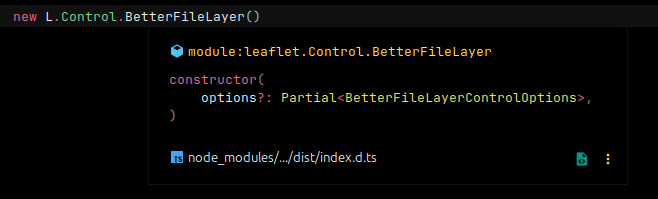
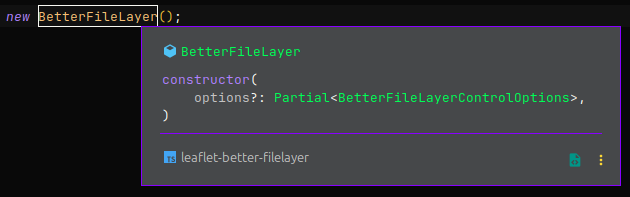
Docs and fixes

diff --git a/src/types.ts b/src/types.ts
@@ -168,9 +168,14 @@ export interface BetterFileLayerControlOptions extends ControlOptions {
   text: {
     title: string;
   };
-  button?: HTMLElement | HTMLInputElement;
   /**
-   * Enable autoload.
+   * Custom External button. Must be input element of type file.
+   */
+  button?: HTMLInputElement;
+  /**
+   * Enable or disable layer autoload. If true the plugin will
+   * create the layer, add into map and send it via bfl:layerloaded event.
+   * If false the plugin will only create the layer and send it via event.
    */
   addOnMap: boolean;
 }

diff --git a/vite.config.js b/vite.config.js
@@ -11,11 +11,11 @@ export default defineConfig({
       name: 'leaflet.betterfilelayer',
       formats: ['es'],
       cssFileName: 'leaflet.betterfilelayer',
-      minify: true,
-      sourcemap: true,
       fileName: () => 'leaflet.betterfilelayer.js',
     },
+    cssMinify: true,
     sourcemap: true,
+    minify: 'terser',
     rollupOptions: {
       external: ['leaflet'],
       output: {

diff --git a/src/leaflet.control.ts b/src/leaflet.control.ts
@@ -94,7 +94,7 @@ export class BetterFileLayer extends Control {
 
   onAdd(map: Map): HTMLDivElement {
     this._map = map;
-    console.log(this.options);
+
     /*
       Binding external button: Enable event listeners
       and return empty div because of Leaflet Control

diff --git a/src/leaflet.omnivore.parsers.ts b/src/leaflet.omnivore.parsers.ts
@@ -23,7 +23,6 @@ interface PolylineParserParameters {
 
 interface BinaryParserParameters {
   data: ArrayBuffer;
-  options?: object;
 }
 
 export function geojsonParse({

diff --git a/README.md b/README.md
@@ -9,10 +9,9 @@
 
 ---
 
-This is a [Leaflet](http://leafletjs.com/) plugin for loading your spatialized data into leaflet based
-on [leaflet-omnivore](https://github.com/mapbox/leaflet-omnivore)
-and [Leaflet.FileLayer](https://github.com/makinacorpus/Leaflet.FileLayer) plugins.
-This plugin was made looking for a convenient and easy to use plugin for loading external spatial files to leaflet.
+This is a [Leaflet](http://leafletjs.com/) plugin for loading your spatialized data into leaflet based on [leaflet-omnivore](https://github.com/mapbox/leaflet-omnivore)
+and [Leaflet.FileLayer](https://github.com/makinacorpus/Leaflet.FileLayer) plugins. This plugin was made looking for a convenient and easy to use
+plugin for loading external spatial files to leaflet.
 
 It currently supports:
 
@@ -35,47 +34,53 @@ It currently supports:
 
 ## Installation
 
+### For Leaflet 2.x
 ```commandline
 npm install leaflet-better-filelayer
+```
+
+### For Leaflet 1.x
+```commandline
+npm install leaflet-better-filelayer@1.0.1
 ```
 
 ## Demo
 
 Checkout the [Demo](https://gabriel-russo.github.io/Leaflet.BetterFileLayer/example/)
 
-Checkout
-the [Demo with external button](https://gabriel-russo.github.io/Leaflet.BetterFileLayer/example/with-button.html)
+Checkout the [Demo with external button](https://gabriel-russo.github.io/Leaflet.BetterFileLayer/example/with-button.html)
 
 Below gif show an example of loading a separated shapefile using drag and drop.
 
-Note: The plugin only looks for `.shp`, `.dbf`, `.shx`, `.prj` with the same name.
+Note: Internally, the plugin groups `.shp`, `.dbf`, `.shx` and `.prj` with the same name.
 
 ![example](docs/images/example.gif)
 
 ## Usage
 
-As map option:
-
 ```js
-const map = L.map('map', { betterFileLayerControl: true })
-```
+import { BetterFileLayer } from "leaflet-better-filelayer";
 
-Or like any control
+const map = new Map('map');
 
-```js
-L.control.betterFileLayer()
-  .addTo(map);
+const bfl = new BetterFileLayer();
 
-// or
-
-const control = new L.Control.BetterFileLayer();
-
-control.addTo(map);
+map.addControl(bfl);
 ```
 
 ## Documentation
 
+### For Leaflet 2.x
+
 > [Go to Wiki page](https://github.com/gabriel-russo/Leaflet.BetterFileLayer/wiki)
+
+### For Leaflet 1.x
+
+> [Go to Wiki page](https://github.com/gabriel-russo/Leaflet.BetterFileLayer/wiki)
+
+And
+
+> [Go to 1.0.1 tag](https://github.com/gabriel-russo/Leaflet.BetterFileLayer/tree/1.0.1)
 
 ## Typescript support
 
@@ -95,8 +100,7 @@ const options = {
   button: document.getElementById('my-button'), // Your input HTML reference
 }
 
-const control = L.control.betterFileLayer(options)
-  .addTo(map);
+const bfl = new BetterFileLayer(options).addTo(map);
 ```
 
 After that, the plugin will bind an "on change" event on this button, waiting for files.
@@ -104,34 +108,6 @@ After that, the plugin will bind an "on change" event on this button, waiting fo
 You can see the example [here](https://gabriel-russo.github.io/Leaflet.BetterFileLayer/example/with-button.html)
 
 `Note:` The Drag and Drop event listener will bind it self automatically
-
-### For Framework devs
-
-#### Components
-
-If you made a component for this plugin, feel free to share, make a pull request!
-
-I made a example using React, you can check in the `react` folder.
-
-#### Handling component creation
-
-To handle conditional created input, you can tell the plugin that you will bind the input later.
-
-Like this:
-
-```ts
-const options = {
-    will_bind_button_later: true
-}
-
-const control = L.control.betterFileLayer(options)
-    .addTo(map);
-
-// Example using React
-// ref = useRef();....
-// <input ref={ref} ... />
-control.bind_button(ref.current);
-```
 
 ## Development
 
@@ -141,7 +117,11 @@ Install the development dependencies
 npm install --save-dev
 ```
 
-`npm run build` after any change and check changes.
+Start Vite development mode
+
+```commandline
+npm run dev
+```
 
 Open `index.html` in your browser and start editing.
 
@@ -153,13 +133,19 @@ To run unity tests:
 npm run test
 ```
 
-## Authors
+### Linting & Code Style
+
+```commandline
+npm run style && npm run lint
+```
+
+## Contributors
 
 - Gabriel Russo <gabrielrusso@protonmail.com>
 
-## Credits
+## License
 
-- Copyright (c) 2025, Gabriel Russo
+- Copyright (c) 2026, Gabriel Russo
 - Copyright (c) 2014, Mapbox
 - Copyright (c) 2012, Michael Bostock
 - Copyright (c) 2012 Makina Corpus
